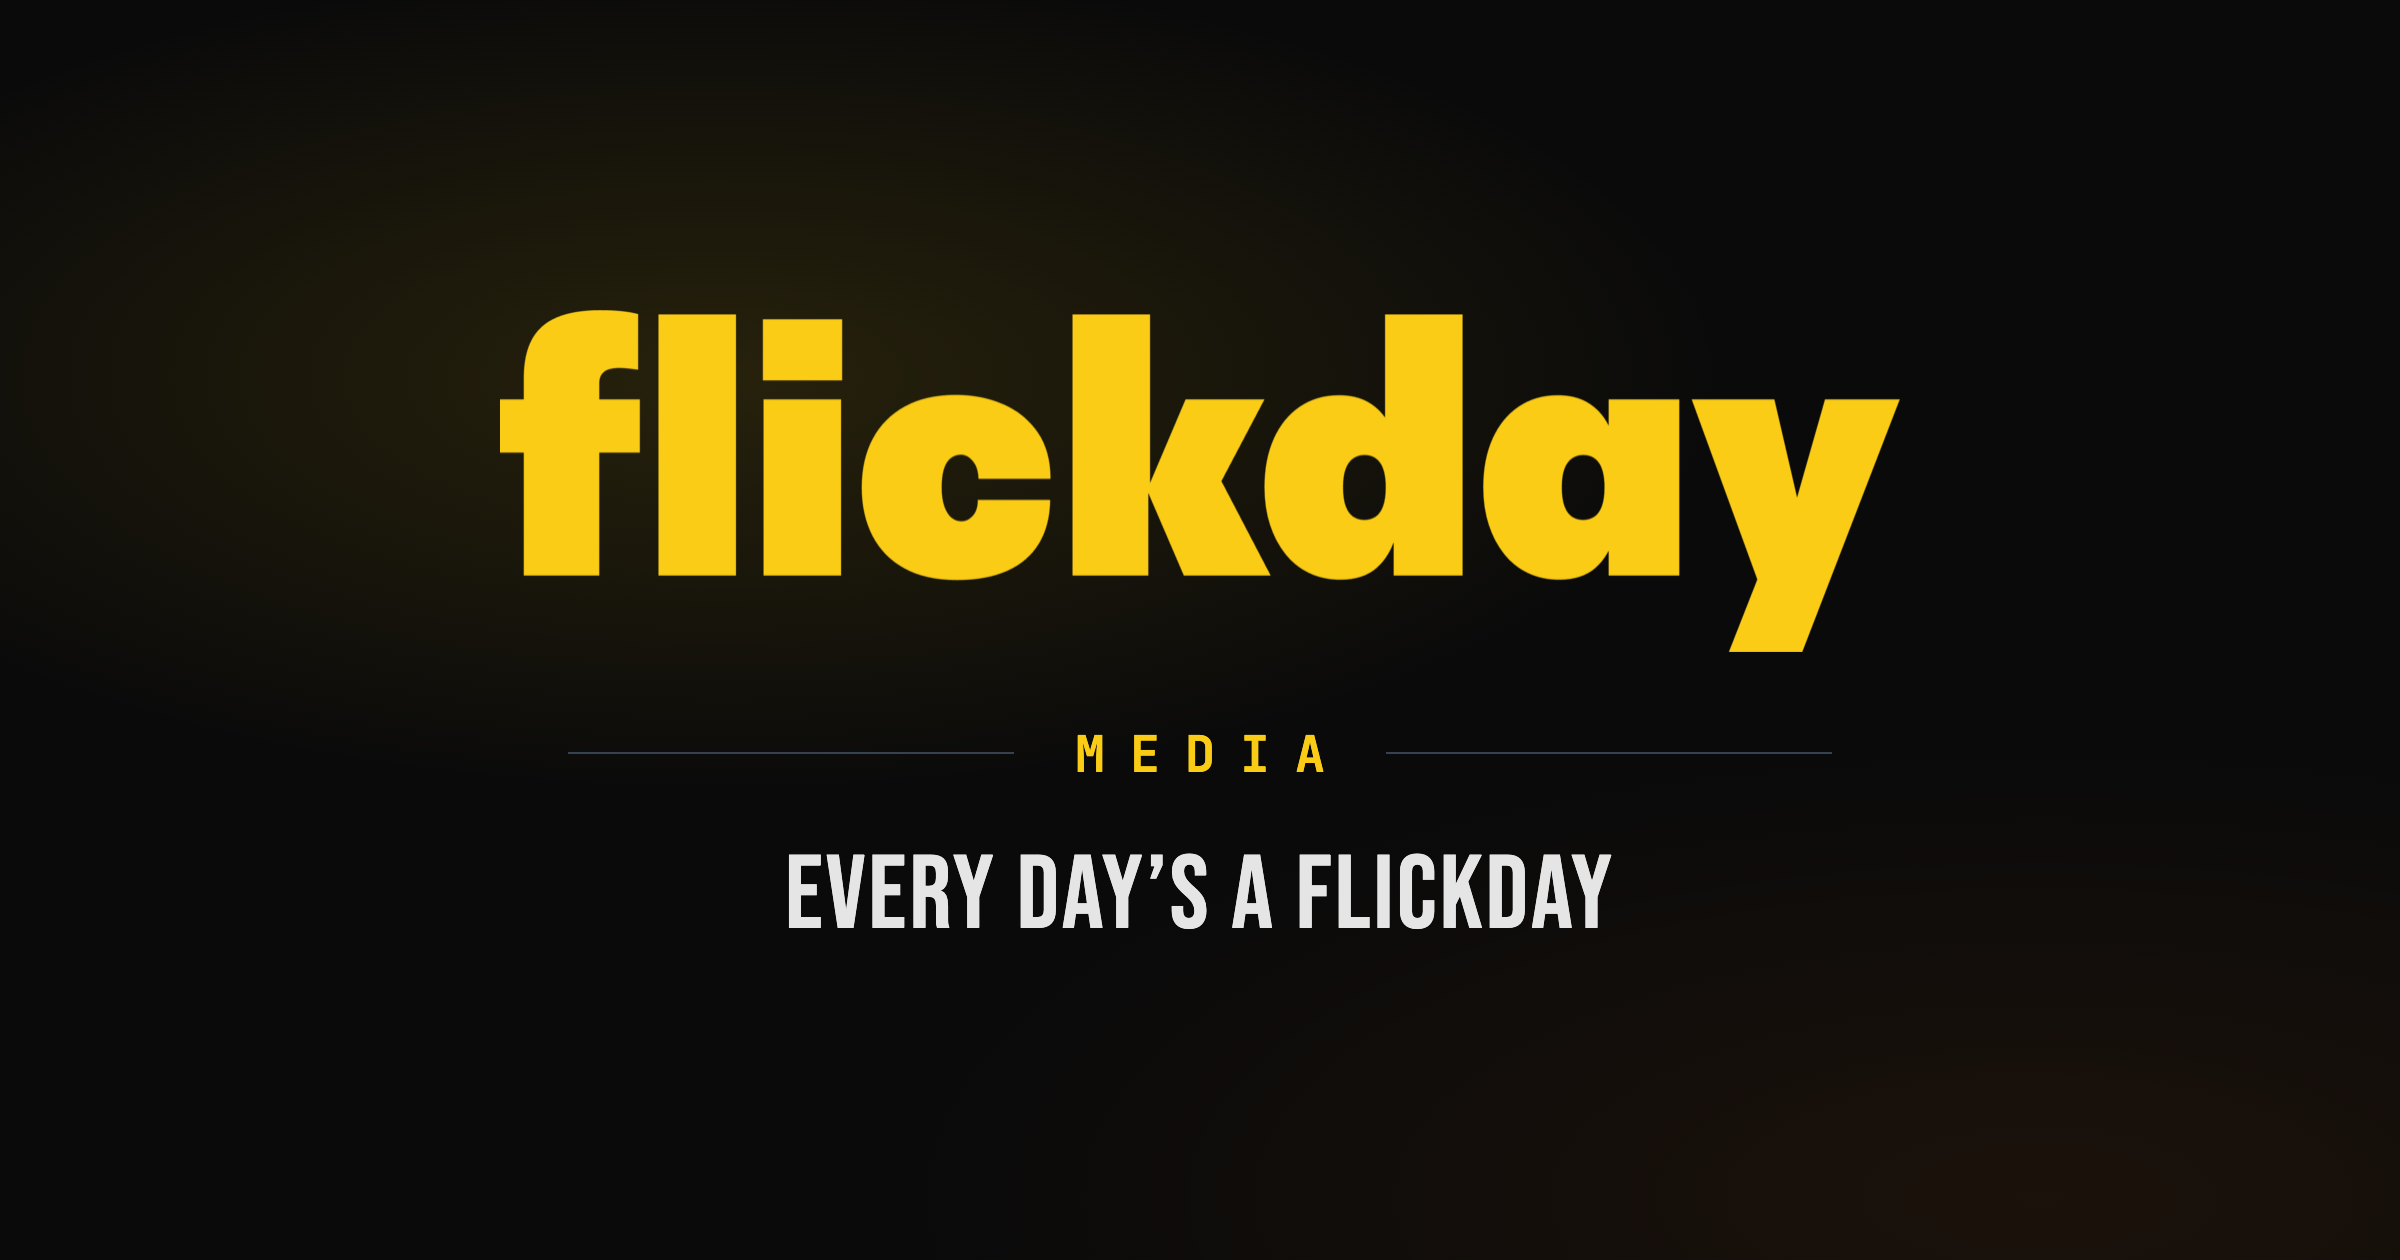
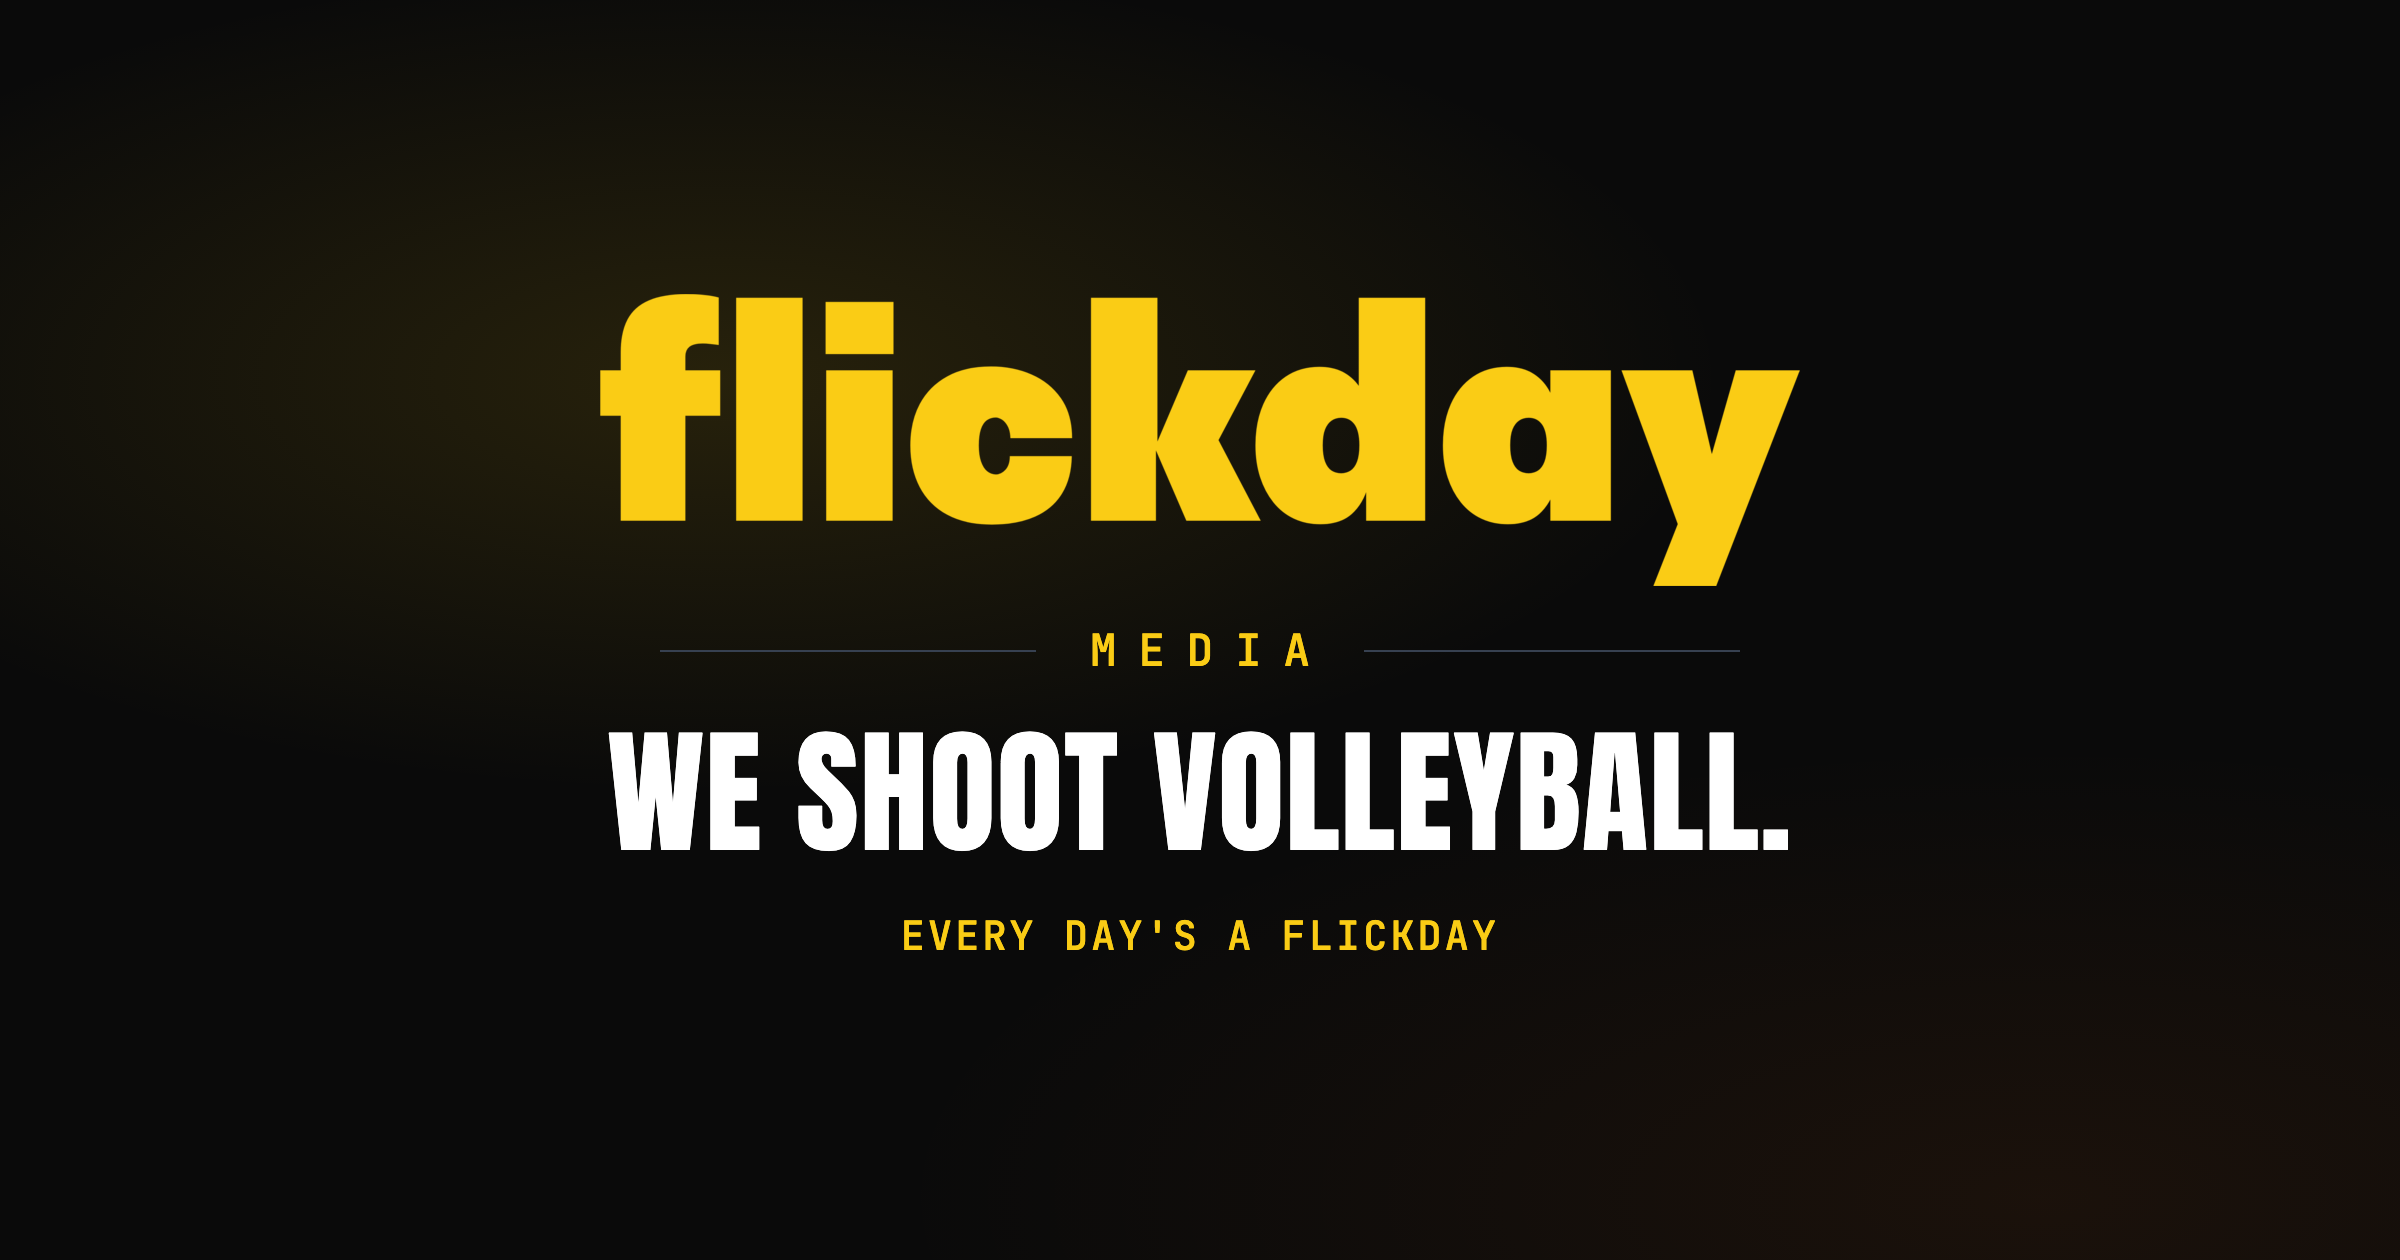
feat(site): share card carries the new home page copy
The og:image card still read wordmark / MEDIA / "Every Day's a Flickday"
in Bebas Neue, a face the site no longer uses. It now matches the
rewritten home page: the Peridot wordmark with its MEDIA rule, the
hero's headline "We shoot volleyball." and the tagline.

- Type and colour come from the live hero's computed styles, read
  2026-10-12 (render standard gate 1): headline Anton 400, uppercase,
  0.01em, white; eyebrow JetBrains Mono 500, uppercase, 0.08em,
  #facc15. Bebas Neue is gone. The render refuses to write unless
  Peridot, Anton and JetBrains Mono all loaded.
- The tagline string is exact, "Every Day's a Flickday" with a straight
  apostrophe (gate 3). The old source used &rsquo;.
- Order: brand, claim, sign-off. With the tagline above the headline
  (the hero's own order), two small mono lines stacked between the
  mark and the claim. Compared at 1200, 500 and 250 px.
- Mark 600 px, headline 68 px: the whole stack fits a centred 630 px
  square for apps that crop link images square. At the old 700 px the
  square cut off the f and the y.
- build-site-wordmark.mjs --card renders the card alone. The header
  PNGs would otherwise re-render on today's Chromium and shift edge
  pixels; they are untouched here.
- og:image goes to ?v=5, and check-published follows.
- asset-render-standard.md: R-0 now says the dispatch hook covers
  render-kit only, not this repo's two build scripts. When the routing
  gate refuses a Judged agent, run the work on the Judged model and
[…]

Changed region(s): [[0.1875, 0.2167, 0.8125, 0.5262], [0.25, 0.5571, 0.75, 0.7738], [0.4375, 0.4952, 0.5625, 0.5262]]

diff --git a/site/index.html b/site/index.html
@@ -14,7 +14,7 @@
   <meta property="og:description" content="Volleyball tournament photos and reels. Based in Chicago, happy to travel. Galleries within 24–48 hours.">
   <meta property="og:type" content="website">
   <meta property="og:url" content="https://flickdaymedia.com">
-  <meta property="og:image" content="https://flickdaymedia.com/flickday-assets/site/og-share-card.png?v=4">
+  <meta property="og:image" content="https://flickdaymedia.com/flickday-assets/site/og-share-card.png?v=5">
   <meta property="og:image:width" content="1200">
   <meta property="og:image:height" content="630">
   <meta name="twitter:card" content="summary_large_image">

diff --git a/standards/asset-render-standard.md b/standards/asset-render-standard.md
@@ -8,9 +8,13 @@ that run at every tier. Machinery: `~/.claude/hooks/render-dispatch-guard.py` an
 
 **Rule R-0.** Name the tier, then dispatch. The main loop cannot change model mid-session.
 
-**Check.** Mechanical for `render-kit` invocations. This repo has no render scripts of its own today
-— the 40-file render pipeline was deleted on 2026-07-05 — so `render-kit` is the expected path and
-hook coverage is complete. If a bespoke renderer returns, add a scope caveat here.
+**Check.** Mechanical for `render-kit` invocations only. The 40-file render pipeline was deleted on
+2026-07-05, but two focused scripts have since returned: `scripts/build-site-wordmark.mjs`, which
+makes the header and footer wordmark PNGs and the share card, and `scripts/build-sting-wordmark.mjs`,
+which makes the motion stings' wordmark layers. **Scope caveat (2026-10-12):** the dispatch hook does
+not see them. It matches `render-kit` commands only, so R-0 holds for these scripts by discipline,
+not mechanically. When the native-routing gate refuses a Judged-tier agent, run the work in a
+session that is already on the Judged model and say so. Do not route it to a cheaper general agent.
 
 ## Tiers
 
